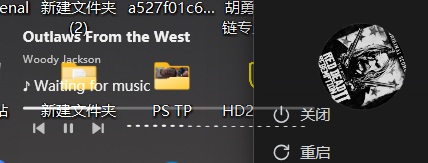
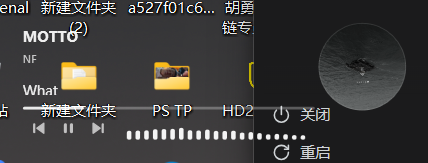
fix(preset): a preset now restores the template too
Presets were built when the card's look was the whole card: colours, sizes, cover treatment. Once
the template became the only description of where modules sit, applying a preset changed the paint
and left the layout alone, so the chip looked like it did nothing.

A preset now stores the template as well (base64 in the same preset row, so the file format keeps its
"name|data" shape and old presets still load, just without a template). Applying one writes the
template back to layout.ini, reloads the card and refreshes the board, so the chip restores the whole
state rather than half of it.

The new spectrum knobs joined the captured keys as well, otherwise a preset would drop them back to
defaults.

Verified with AMC_APPLY_PRESET=<n>, a start-up hook added because preset chips sit at the bottom of a
scrolled page and are awkward to drive from a script: a handmade preset carrying a template with
Title X=120 and a red title logged "preset apply name=测试 template=True", wrote X=120 into
layout.ini and the card grew to 502x190 with a red, right-shifted title.

diff --git a/src/MainWindow.cs b/src/MainWindow.cs
@@ -1176,6 +1176,17 @@ namespace Amc
                 RebuildAll();
             };
             _preview.CancelRequested += delegate { RebuildAll(); };
+
+            // AMC_APPLY_PRESET=<n> applies preset n once at start-up and logs what it did. Preset
+            // chips live at the bottom of a scrolled page, which makes them the one control that is
+            // awkward to drive from a script; this hook keeps them testable.
+            string presetEnv = Environment.GetEnvironmentVariable("AMC_APPLY_PRESET");
+            int presetIdx;
+            if (presetEnv != null && int.TryParse(presetEnv, out presetIdx) && presetIdx >= 0 && presetIdx < _cfg.Presets.Count)
+            {
+                Config.LookPreset target = _cfg.Presets[presetIdx];
+                Dispatcher.BeginInvoke(new Action(delegate { ApplyPreset(target); }), System.Windows.Threading.DispatcherPriority.Background);
+            }
             var board = new Border
             {
                 Background = new SolidColorBrush(Color.FromArgb(12, 255, 255, 255)),
@@ -1444,7 +1455,10 @@ namespace Amc
                 if (nm.Length == 0) nm = Strings.F("preset.defaultName", _cfg.Presets.Count + 1);
                 if (nm.Length > 14) nm = nm.Substring(0, 14);
                 if (_cfg.Presets.Count >= 10) _cfg.Presets.RemoveAt(0);
-                _cfg.Presets.Add(_cfg.CaptureLook(nm));
+                Config.LookPreset np = _cfg.CaptureLook(nm);
+                string tmpl = ReadTemplateText();
+                if (tmpl != null) np.Data += ";Template=" + Convert.ToBase64String(System.Text.Encoding.UTF8.GetBytes(tmpl));
+                _cfg.Presets.Add(np);
                 _cfg.Save();
                 SetPage("look");
             }, false);
@@ -1461,6 +1475,45 @@ namespace Amc
         }
 
         // one saved look: click the name to apply it, click the x to delete it
+        // A preset used to be "how the card looks": colours, sizes, cover treatment. Since the
+        // template became the only description of where things sit, it also has to carry the
+        // template, otherwise applying a preset leaves the layout behind and the chip looks broken.
+        static string ReadTemplateText()
+        {
+            try
+            {
+                if (!System.IO.File.Exists(CardConfig.DefaultPath)) return null;
+                return System.IO.File.ReadAllText(CardConfig.DefaultPath, System.Text.Encoding.UTF8);
+            }
+            catch { return null; }
+        }
+
+        void ApplyPreset(Config.LookPreset p)
+        {
+            if (p == null) return;
+            string template = null;
+            foreach (string pair in (p.Data ?? "").Split(';'))
+            {
+                if (!pair.StartsWith("Template=")) continue;
+                try { template = System.Text.Encoding.UTF8.GetString(Convert.FromBase64String(pair.Substring(9))); }
+                catch { template = null; }
+            }
+            _cfg.ApplyLookPreset(p);
+            _cfg.Save();
+            _card.ApplyLook();
+            _card.ApplyCurrentScale();
+            _card.ApplyCurrentOpacity();
+            if (template != null)
+            {
+                try { System.IO.File.WriteAllText(CardConfig.DefaultPath, template, System.Text.Encoding.UTF8); }
+                catch { }
+                _card.ReloadModel();
+                _preview.RefreshFromCard();
+            }
+            LyricsService.Log("preset apply name=" + p.Name + " template=" + (template != null));
+            SetPage("look");
+        }
+
         Border PresetChip(Config.LookPreset p)
         {
             Color idle = Color.FromArgb(22, 255, 255, 255);
@@ -1498,12 +1551,7 @@ namespace Amc
             b.MouseLeftButtonUp += delegate
             {
                 if (del.IsMouseOver) return;
-                _cfg.ApplyLookPreset(p);
-                _cfg.Save();
-                _card.ApplyLook();
-                _card.ApplyCurrentScale();
-                _card.ApplyCurrentOpacity();
-                SetPage("look");
+                ApplyPreset(p);
             };
             return b;
         }

diff --git a/src/Config.cs b/src/Config.cs
@@ -384,6 +384,13 @@ namespace Amc
             l.Add("ArtTintDark=" + ArtTintDark);
             l.Add("ArtTintLight=" + ArtTintLight);
             l.Add("ArtTintMix=" + ArtTintMix.ToString("0.###", CultureInfo.InvariantCulture));
+            l.Add("BarsCount=" + BarsCount);
+            l.Add("BarsAttack=" + BarsAttack.ToString("0.###", CultureInfo.InvariantCulture));
+            l.Add("BarsRelease=" + BarsRelease.ToString("0.###", CultureInfo.InvariantCulture));
+            l.Add("BarsThickness=" + BarsThickness.ToString("0.###", CultureInfo.InvariantCulture));
+            l.Add("BarsLength=" + BarsLength.ToString("0.###", CultureInfo.InvariantCulture));
+            l.Add("BarsMaxHeight=" + BarsMaxHeight.ToString("0.###", CultureInfo.InvariantCulture));
+            l.Add("BarsColor=" + BarsColor);
             l.Add("ArtistMaxChars=" + ArtistMaxChars);
             return l;
         }
